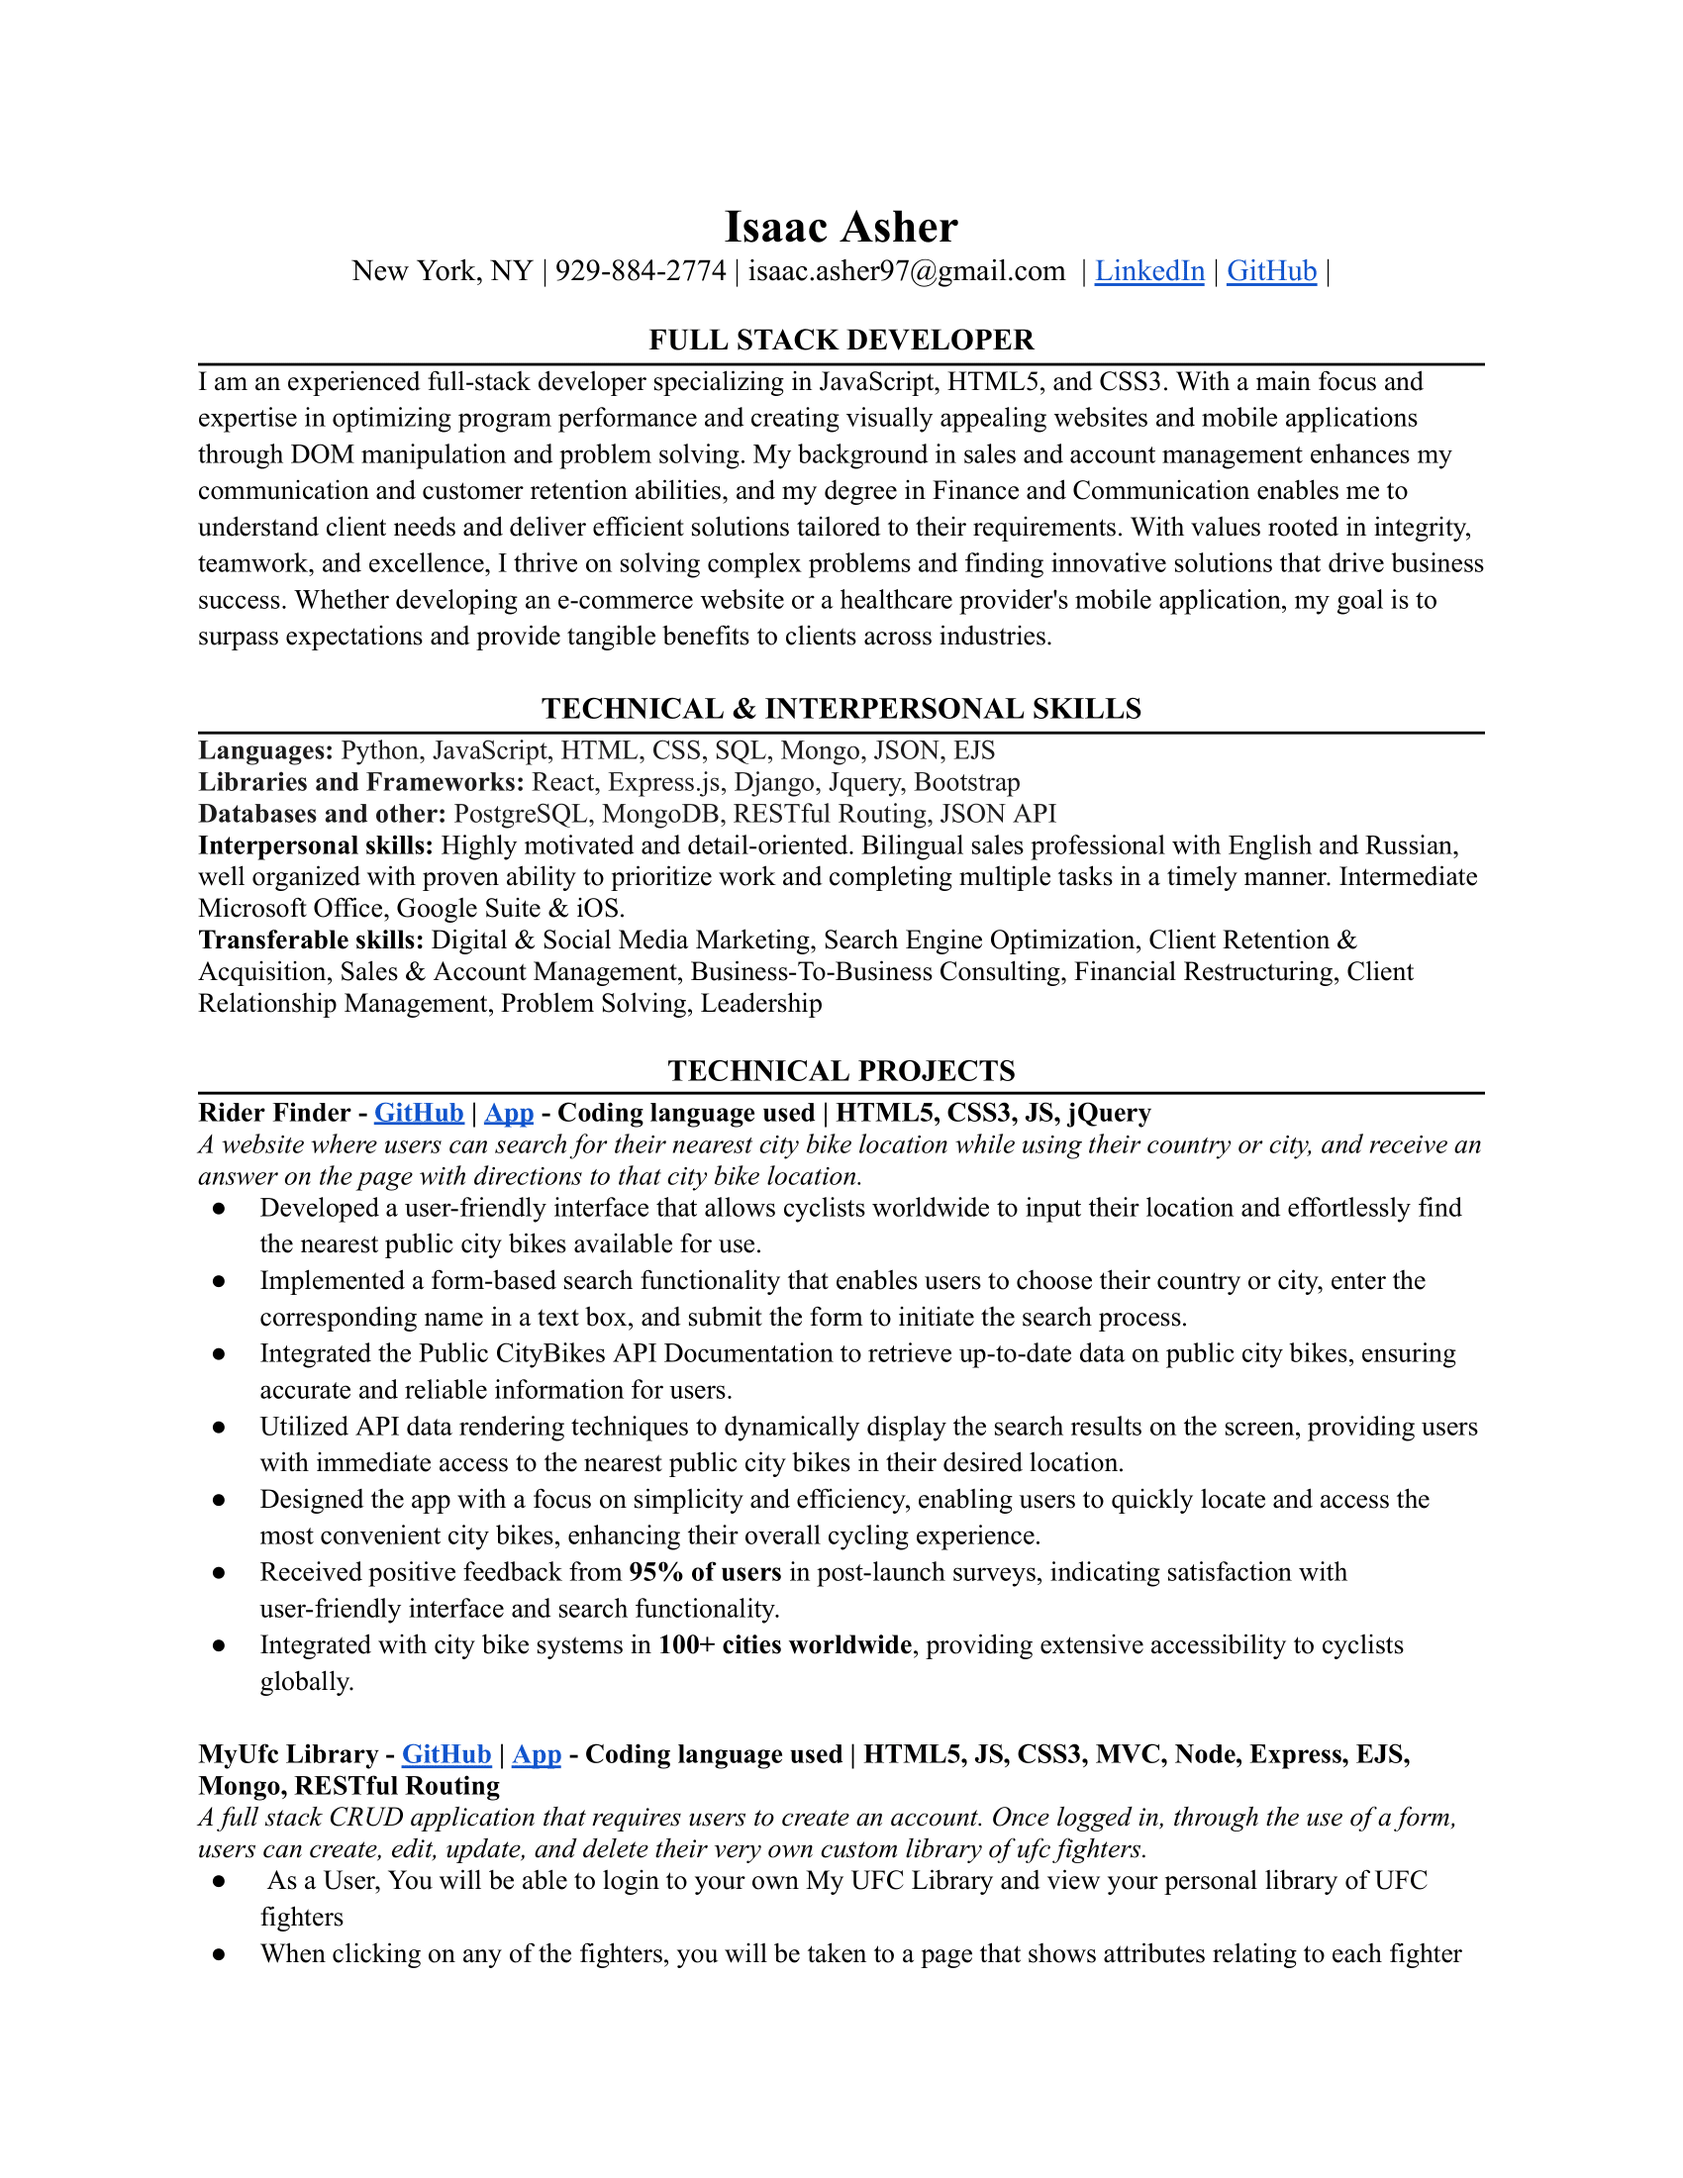
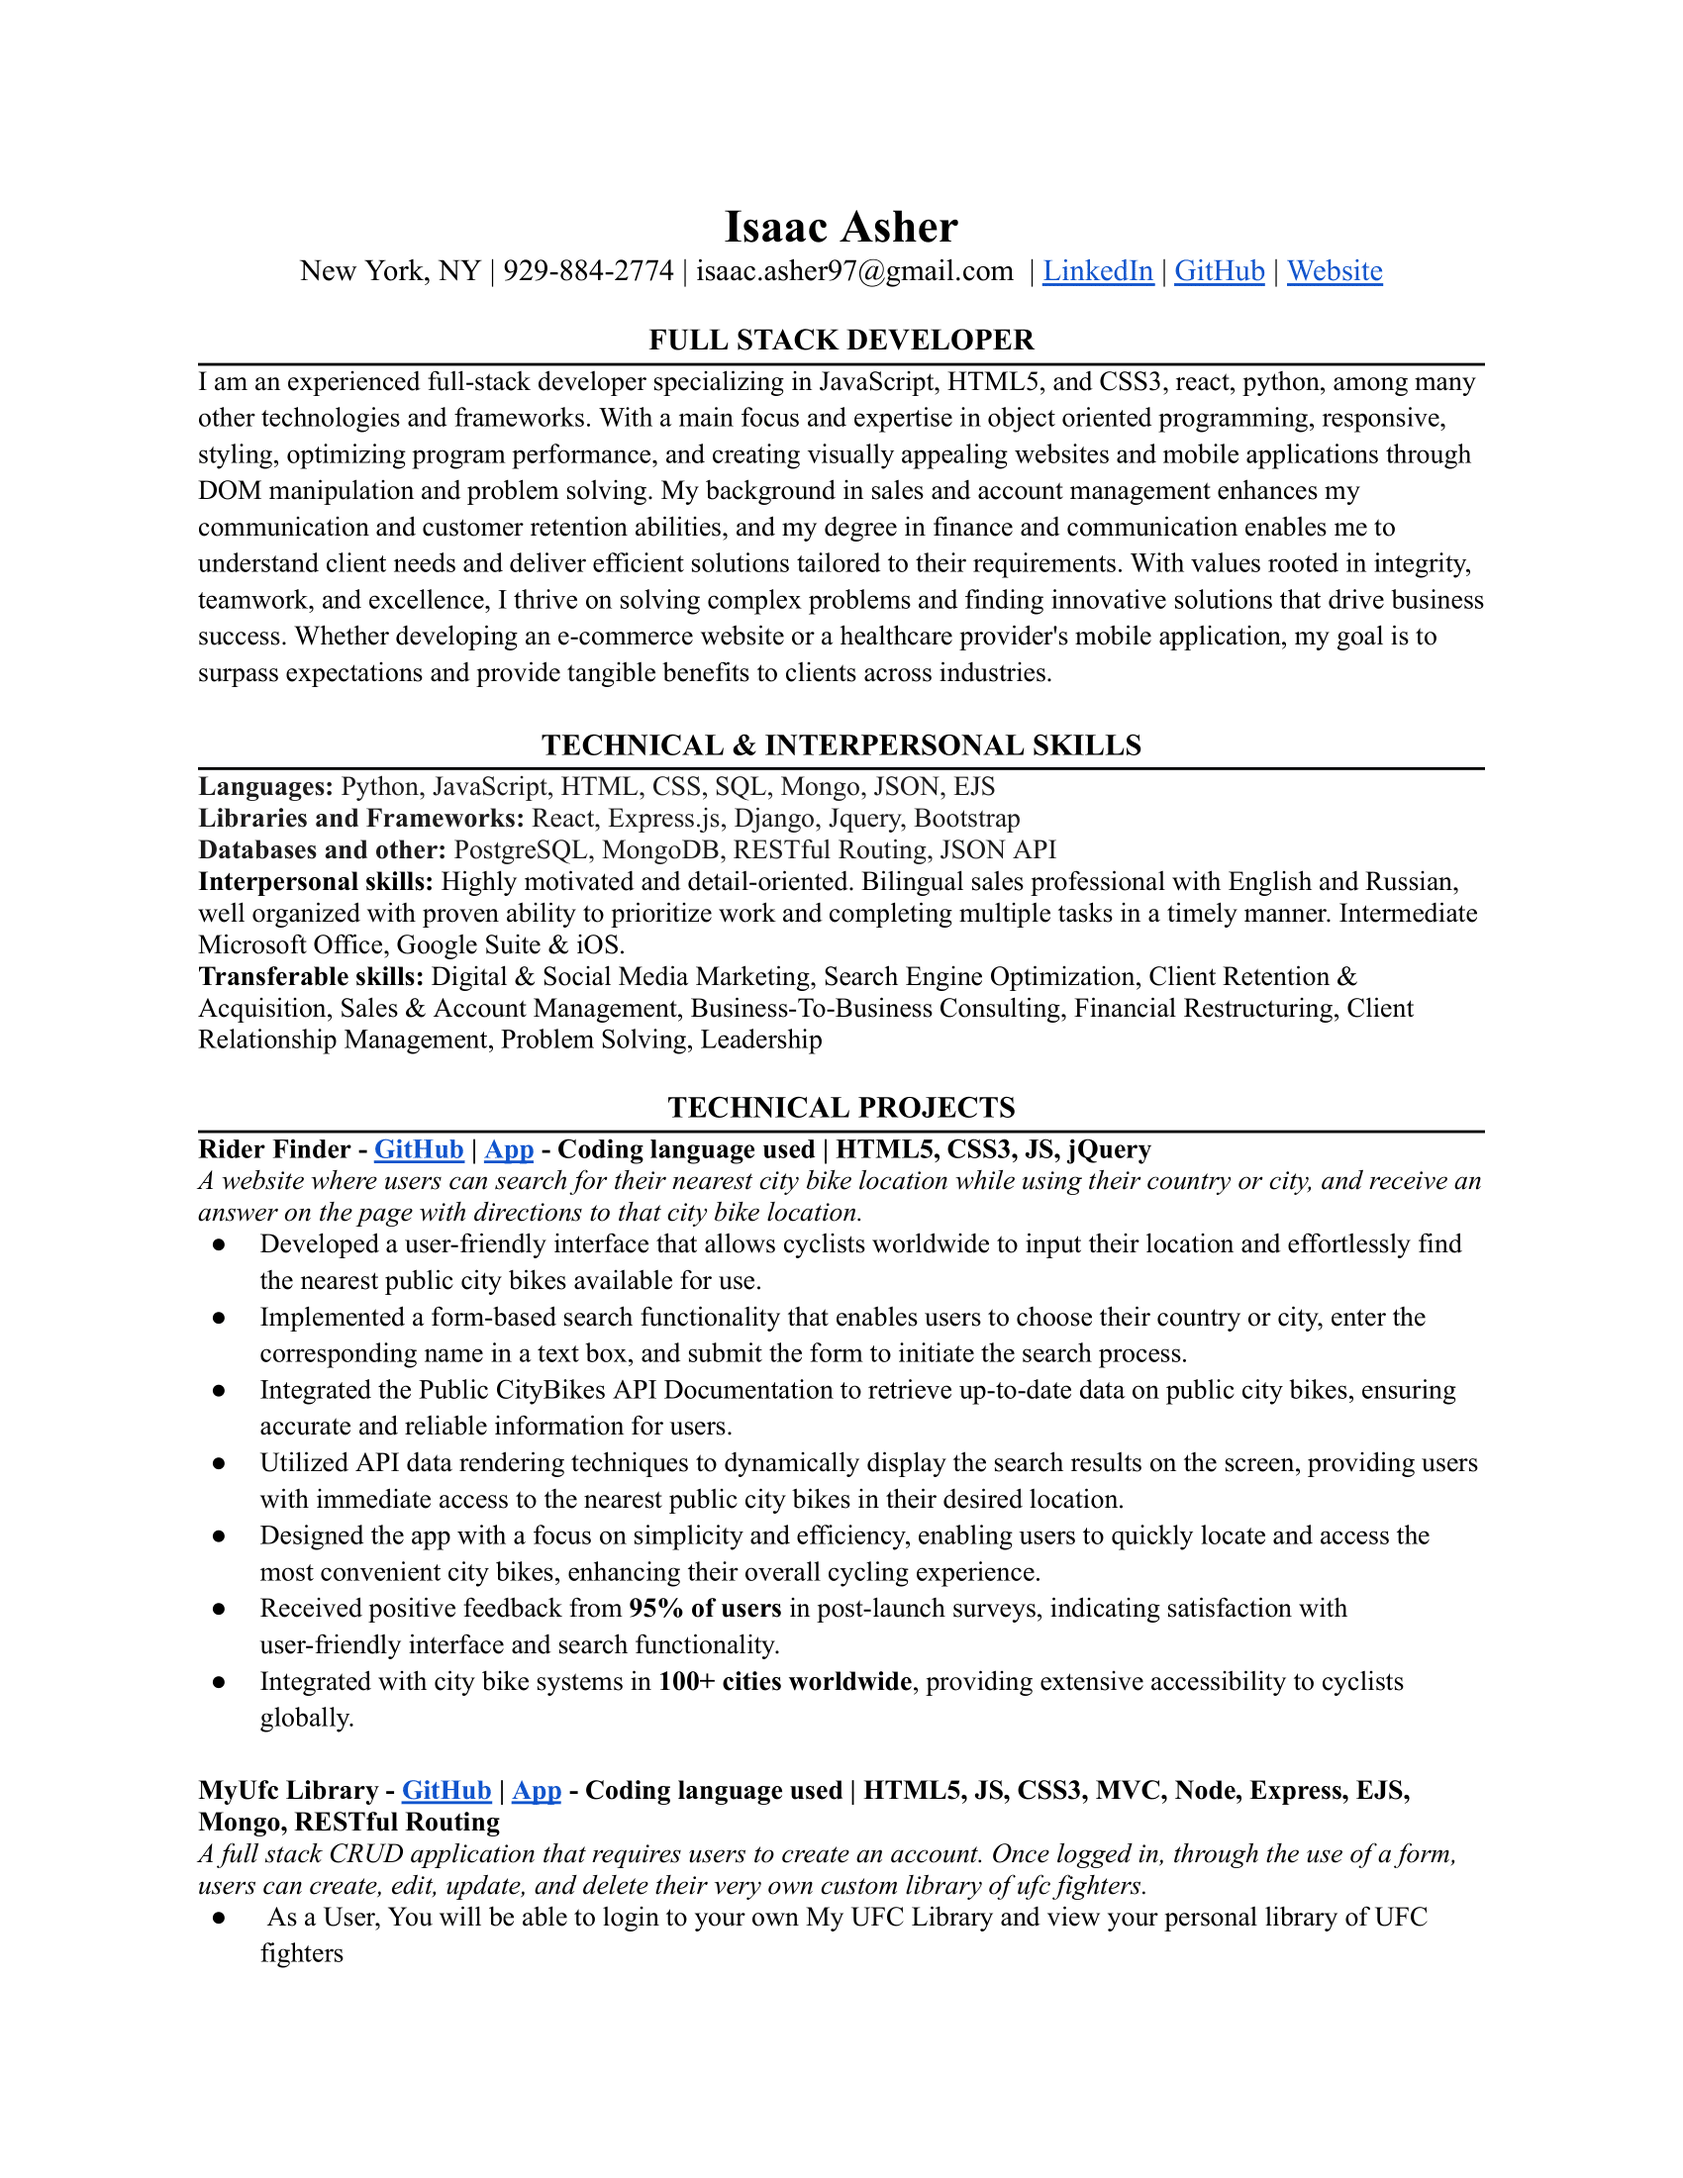
resume updated - portfolio complete adn deployed

Changed region(s): [[0.1247, 0.1236, 0.8729, 0.9273], [0.4365, 0.1236, 0.5612, 0.1545], [0.6235, 0.1236, 0.6547, 0.1545]]

diff --git a/index.html b/index.html
@@ -58,7 +58,7 @@
                 <div class="row align-items-center">
                     <div class="col-12 col-md-6 col-xl-7 wow fadeIn" data-wow-duration="1.5s"><br><br>
                         <h1>Hi, I'm Isaac. <span class="txt-rotate" data-period="1000" data-rotate='[ "A Web Developer", "A Software Engineer", "A Problem Solver", "A Coder" ]'></span> From NYC</h1>
-                        <p>Hello, my name is Isaac Asher. I am a full-stack developer specializing in JavaScript, HTML5, and CSS3, React, Python, among many other technologies. With a main focus and expertise in optimizing program performance and creating visually appealing websites and mobile applications through DOM manipulation and problem solving. My background in sales and account management enhances my communication and customer retention abilities, and my degree in Finance and Communication enables me to understand client needs and deliver efficient solutions tailored to their requirements. With values rooted in integrity, teamwork, and excellence, I thrive on solving complex problems and finding innovative solutions that drive business success. Whether developing an e-commerce website or a healthcare provider's mobile application, my goal is to surpass expectations and provide tangible benefits to clients across industries.</p>
+                        <p>Hello, my name is Isaac Asher. I am a full-stack developer specializing in JavaScript, HTML5, and CSS3, React, Python, among many other technologies.With a main focus and expertise in object oriented programming, responsive styling, optimizing program performance, and creating visually appealing websites and mobile applications through DOM manipulation and problem solving. My background in sales and account management enhances my communication and customer retention abilities, and my degree in finance and communication enables me to understand client needs and deliver efficient solutions tailored to their requirements. With values rooted in integrity, teamwork, and excellence, I thrive on solving complex problems and finding innovative solutions that drive business success. Whether developing an e-commerce website or a healthcare provider's mobile application, my goal is to surpass expectations and provide tangible benefits to clients across industries.</p>
                         <button onclick="location.href='#home';"><a href="https://www.linkedin.com/in/isaac-ash/" target="_blank">Let’s Connect</a><i class="bi bi-arrow-right-circle"></i></button>
                     </div>
                     <div class="col-12 col-md-6 col-xl-5 wow zoomIn" data-wow-duration="1.5s">
